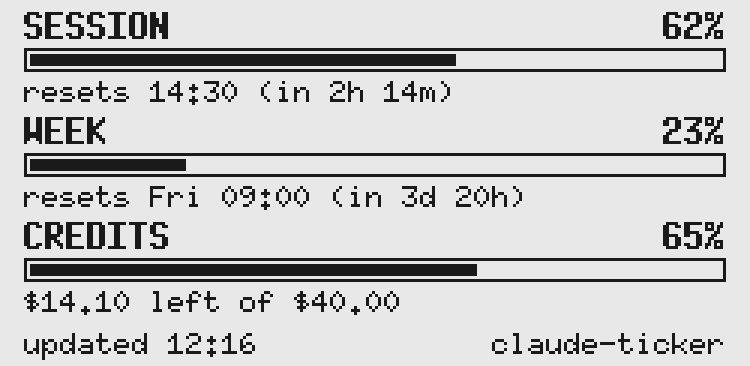
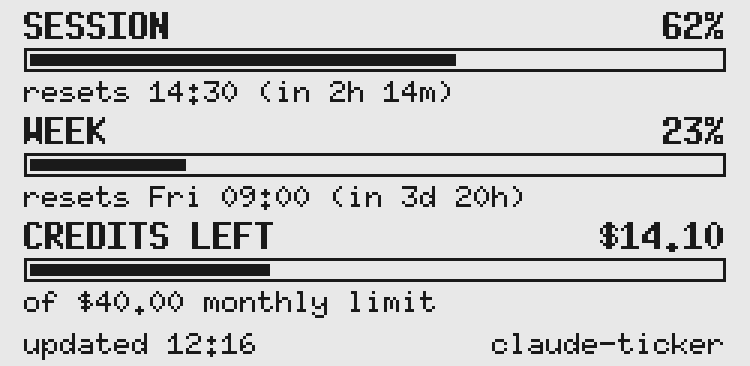
changed credits UI

diff --git a/src/view.rs b/src/view.rs
@@ -186,7 +186,7 @@ where
         Alignment::Left,
         t,
     )?;
-    let pct = format!("{}%", row.percent);
+    let pct = value_text(row);
     text(&pct, l.percent_font, TEXT_RIGHT, y, Alignment::Right, t)?;
     progress_bar(row.percent, y + l.bar_dy, t)?;
     text(
@@ -205,7 +205,7 @@ where
     D: DrawTarget<Color = BinaryColor>,
 {
     text(&row.label, &FONT_7X13_BOLD, MARGIN, y, Alignment::Left, t)?;
-    let pct = format!("{}%", row.percent);
+    let pct = value_text(row);
     text(&pct, &FONT_7X13_BOLD, TEXT_RIGHT, y, Alignment::Right, t)?;
     text(
         &short_detail(&row.detail),
@@ -218,11 +218,19 @@ where
     progress_bar(row.percent, y + DENSE_BAR_DY, t)
 }
 
-/// The line under a bar: when it resets, or `$14.10 left of $40.00`.
+/// Right of the label: `62%`, or for credits the amount left, `$11.15`.
+fn value_text(row: &Row) -> String {
+    match &row.detail {
+        Detail::Credits { left, .. } => left.to_string(),
+        Detail::Reset(_) => format!("{}%", row.percent),
+    }
+}
+
+/// The line under a bar: when it resets, or `of $40.00 monthly limit`.
 fn detail_line(detail: &Detail) -> String {
     match detail {
         Detail::Reset(reset) => reset_line(*reset),
-        Detail::Credits { left, limit } => format!("{left} left of {limit}"),
+        Detail::Credits { limit, .. } => format!("of {limit} monthly limit"),
     }
 }
 
@@ -236,7 +244,8 @@ fn short_detail(detail: &Detail) -> String {
         Detail::Reset(Reset::At { at, left }) => format!("{} ({left})", at.format("%a %H:%M")),
         Detail::Reset(Reset::Passed { at }) => format!("reset {}", at.format(TIME_FORMAT)),
         Detail::Reset(Reset::Unknown) => String::new(),
-        Detail::Credits { left, .. } => format!("{left} left"),
+        // The label and amount already say it all.
+        Detail::Credits { .. } => String::new(),
     }
 }
 
@@ -517,7 +526,7 @@ mod tests {
     /// Credits at their widest: a non-dollar currency and big amounts.
     fn credits_row() -> Row {
         Row {
-            label: "CREDITS".to_owned(),
+            label: "CREDITS LEFT".to_owned(),
             percent: 100,
             detail: Detail::Credits {
                 left: money(99_999_999, "EUR"),
@@ -604,7 +613,7 @@ mod tests {
         assert_eq!(short_detail(&rows[0].detail), "Wed 23:59 (6d 23h)");
         assert_eq!(short_detail(&rows[1].detail), "23:59 (23h 59m)");
         assert_eq!(short_detail(&rows[2].detail), "reset 23:59");
-        assert_eq!(short_detail(&rows[4].detail), "EUR 999999.99 left");
+        assert_eq!(short_detail(&rows[4].detail), "");
     }
 
     #[test]
@@ -613,8 +622,14 @@ mod tests {
             left: money(1410, "AUD"),
             limit: money(4000, "AUD"),
         };
-        assert_eq!(detail_line(&d), "$14.10 left of $40.00");
-        assert_eq!(short_detail(&d), "$14.10 left");
+        assert_eq!(detail_line(&d), "of $40.00 monthly limit");
+        assert_eq!(short_detail(&d), "");
+        let row = Row {
+            label: "CREDITS LEFT".to_owned(),
+            percent: 35,
+            detail: d,
+        };
+        assert_eq!(value_text(&row), "$14.10");
     }
 
     #[test]

diff --git a/src/usage.rs b/src/usage.rs
@@ -229,16 +229,18 @@ impl Usage {
     }
 }
 
-/// `CREDITS`: percent of the monthly cap spent, and what is left of it.
+/// `CREDITS LEFT`: what is left of the monthly cap. Unlike the other rows,
+/// `percent` is the share *remaining*, so the bar and the amount agree.
 fn credits_row(c: &Credits) -> Row {
+    let left = c.limit.minor.saturating_sub(c.used.minor).max(0);
     // Checked above zero when parsed; f64 is exact far beyond any real cap.
-    let percent = clamp_percent(c.used.minor as f64 * 100.0 / c.limit.minor.max(1) as f64);
+    let percent = clamp_percent(left as f64 * 100.0 / c.limit.minor.max(1) as f64);
     Row {
-        label: "CREDITS".to_owned(),
+        label: "CREDITS LEFT".to_owned(),
         percent,
         detail: Detail::Credits {
             left: Money {
-                minor: c.limit.minor.saturating_sub(c.used.minor).max(0),
+                minor: left,
                 ..c.limit.clone()
             },
             limit: c.limit.clone(),
@@ -349,9 +351,9 @@ pub fn sign_in_warning(expires: Option<DateTime<Utc>>, now: DateTime<Utc>) -> Op
 /// One limit on the dashboard.
 #[derive(Debug, Clone, PartialEq, Eq)]
 pub struct Row {
-    /// `SESSION`, `WEEK`, `WEEK OPUS` or `CREDITS`.
+    /// `SESSION`, `WEEK`, `WEEK OPUS` or `CREDITS LEFT`.
     pub label: String,
-    /// Percent used, 0–100.
+    /// Percent used, 0–100 (for `CREDITS LEFT`, percent remaining).
     pub percent: u8,
     /// The line under the bar.
     pub detail: Detail,
@@ -559,7 +561,7 @@ mod tests {
         );
         let s = status(json, NOW);
         let row = s.rows.last().unwrap();
-        assert_eq!((row.label.as_str(), row.percent), ("CREDITS", 65));
+        assert_eq!((row.label.as_str(), row.percent), ("CREDITS LEFT", 35));
         assert_eq!(
             row.detail,
             Detail::Credits {
@@ -601,11 +603,11 @@ mod tests {
             with(r#"{"is_enabled": true, "monthly_limit": 0, "used_credits": 0}"#),
             None
         );
-        // Overspent: 100%, nothing left, never negative.
+        // Overspent: 0% left, nothing left, never negative.
         let json = r#"{"five_hour": {"utilization": 9}, "extra_usage": {"is_enabled": true,
             "monthly_limit": 1000, "used_credits": 1234, "currency": "USD"}}"#;
         let row = status(json, NOW).rows.pop().unwrap();
-        assert_eq!(row.percent, 100);
+        assert_eq!(row.percent, 0);
         let Detail::Credits { left, .. } = row.detail else {
             panic!("{row:?}")
         };

diff --git a/src/main.rs b/src/main.rs
@@ -137,7 +137,7 @@ fn print_status(config: &Config) -> Result<(), Box<dyn Error>> {
             }
             Detail::Reset(Reset::Passed { at }) => format!("reset at {}", at.format(TIME_FORMAT)),
             Detail::Reset(Reset::Unknown) => "no reset time".to_owned(),
-            Detail::Credits { left, limit } => format!("{left} left of {limit} this month"),
+            Detail::Credits { left, limit } => format!("{left} left of {limit} monthly limit"),
         };
         println!("{:<12} {:>3}%  {detail}", row.label, row.percent);
     }

diff --git a/tests/usage_api.rs b/tests/usage_api.rs
@@ -95,7 +95,7 @@ fn real_credits_response_adds_a_credits_row() {
         .iter()
         .map(|r| (r.label.as_str(), r.percent))
         .collect();
-    assert_eq!(rows, [("SESSION", 9), ("WEEK", 100), ("CREDITS", 65)]);
+    assert_eq!(rows, [("SESSION", 9), ("WEEK", 100), ("CREDITS LEFT", 35)]);
     let Detail::Credits { left, limit } = &s.rows[2].detail else {
         panic!("{:?}", s.rows[2])
     };

diff --git a/AGENTS.md b/AGENTS.md
@@ -13,7 +13,7 @@ A small Rust program that runs on a **Raspberry Pi Zero / Zero 2 W** with a **Wa
 1. The rolling 5-hour **session** limit: percent used and when it resets.
 2. The **weekly** limit across all models: percent used and when it resets.
 3. A **model-specific weekly** limit (e.g. Opus), only when the plan has one.
-4. **Usage credits** ("extra usage"): percent of the monthly spending cap used and what is left of it, only when credits are turned on. Added at the owner's request on 2026-10-31.
+4. **Usage credits** ("extra usage"): the amount left under the monthly spending cap, only when credits are turned on. Added at the owner's request on 2026-10-31.
 
 Each limit is a row with a progress bar. A footer shows when the numbers were fetched, and marks them `STALE` when old.
 
@@ -92,7 +92,7 @@ These live in `src/usage.rs`, and each has a unit test there. `tests/usage_api.r
 - Session: `five_hour.utilization`, falling back to the `limits[]` entry with `kind = "session"` (`percent`).
 - Weekly: `seven_day.utilization`, falling back to `limits[kind = "weekly_all"]`.
 - Model row: the first non-null of `seven_day_opus`, then `seven_day_sonnet`, then any `limits[kind = "weekly_<model>"]`. Its label is `WEEK <MODEL>`.
-- Credits row (`CREDITS`, always last): `extra_usage` when `is_enabled` is true (`used_credits` and `monthly_limit` in minor units, with `currency` and `decimal_places`), falling back to `spend` when `enabled` is true (`used` and `limit`, each `{amount_minor, currency, exponent}`). It needs a cap above zero; otherwise there is no row. Other objects in the response (`iguana_necktie`, other codenamed fields) are not limits and must not become rows.
+- Credits row (`CREDITS LEFT`, always last): `extra_usage` when `is_enabled` is true (`used_credits` and `monthly_limit` in minor units, with `currency` and `decimal_places`), falling back to `spend` when `enabled` is true (`used` and `limit`, each `{amount_minor, currency, exponent}`). It needs a cap above zero; otherwise there is no row. Other objects in the response (`iguana_necktie`, other codenamed fields) are not limits and must not become rows.
 - A response with neither a session nor a weekly limit is a `ParseError::NoLimits`. A `resets_at` that is missing or invalid becomes `Reset::Unknown`, not an error.
 
 ### Display rules
@@ -103,7 +103,7 @@ These live in `src/usage.rs`, and each has a unit test there. `tests/usage_api.r
 - Reset lines: `resets 14:30 (in 2h 14m)` when under a day away, otherwise `resets Fri 09:00 (in 3d 20h)`.
 - Sign-in warning: when the refresh token expires within `SIGN_IN_WARNING` (5 days), the footer shows `re-login in <span>` (`usage::sign_in_warning`, filled in by `app` from `UsageSource::sign_in_expires`). Unknown expiry means no warning.
 - Hostname: otherwise the footer's right side shows the device's hostname (`Status::host`, filled in by `app` from `App::with_host`; `main` reads `/proc/sys/kernel/hostname`). The sign-in warning takes its place when due. Non-ASCII and whitespace characters are dropped, and it is cut short to keep two characters clear of the left text (22 characters next to `STALE Mon 12:16`).
-- Credits: percent is spent ÷ cap, rounded and clamped like the others. The line under the bar is `$14.10 left of $40.00`. Amounts left are never negative. `$` is used for USD, AUD, CAD, NZD, SGD and HKD; other currencies are written as their code (`EUR 14.10`), since the fonts are ASCII-only. The API gives no date for the cap's reset, so none is shown.
+- Credits: the row shows the amount left (cap − spent, never negative, e.g. `$14.10`) where other rows show a percentage, and its bar is the share *remaining* (`Row::percent` is percent remaining for this row only). The line under the bar is `of $40.00 monthly limit`. This is the spend limit, not the prepaid balance shown on the claude.ai usage page, which the API does not return (`spend.balance` is null, checked 2026-10-31). `$` is used for USD, AUD, CAD, NZD, SGD and HKD; other currencies are written as their code (`EUR 14.10`), since the fonts are ASCII-only. The API gives no date for the cap's reset, so none is shown.
 - Staleness: data older than `stale_minutes` is flagged `STALE`. Data older than `STALE_LIMIT_FACTOR` (6) × `stale_minutes` is `StatusError::Stale`, and the error screen replaces the numbers.
 
 ### Errors in the loop (`app`)
@@ -171,7 +171,7 @@ The display is **not** an LCD. Designs that assume one will look bad or wear out
 - 8 px side margin (`MARGIN`). Nothing may be clipped at the edges. Right-aligned text anchors at `TEXT_RIGHT`, the bar's last pixel column.
 - Fonts: `embedded_graphics::mono_font::ascii` only (`FONT_10X20`, `FONT_7X13_BOLD`, `FONT_6X10`). Monospace only, so widths are predictable. They are ASCII-only: no `·`, `…` or other non-ASCII characters in drawn text.
 - Times on the display are 24-hour `HH:MM` (`view::TIME_FORMAT`), in the configured timezone, with a weekday (`Fri 09:00`) once a day or more away.
-- Two rows use the `ROOMY` layout (large percentage). Three rows switch to `COMPACT`. Four rows (model row and credits together) switch to the dense layout: label, a short detail (`Fri 09:00 (3d 20h)`, `14:30 (2h 14m)`, `reset 14:30` or `$14.10 left`) and the percentage on one line, then the bar, on a 27 px pitch. The short detail is right-aligned to `DENSE_DETAIL_RIGHT`, leaving room for `100%`. Check the longest realistic strings fit: `WEEK SONNET`, `100%`, `resets Wed 23:59 (in 6d 23h)`, `EUR 999999.99 left of EUR 999999.99`, and the footer `STALE Wed 23:59` with `re-login in 23h 59m` or a 63-character hostname. `view::tests::longest_strings_fit_inside_margins`, `dense_rows_keep_label_and_detail_apart` and `footer_texts_never_meet` check this.
+- Two rows use the `ROOMY` layout (large percentage). Three rows switch to `COMPACT`. Four rows (model row and credits together) switch to the dense layout: label, a short detail (`Fri 09:00 (3d 20h)`, `14:30 (2h 14m)`, `reset 14:30`; none for credits) and the percentage (or credits amount) on one line, then the bar, on a 27 px pitch. The short detail is right-aligned to `DENSE_DETAIL_RIGHT`, leaving room for `100%`. Check the longest realistic strings fit: `WEEK SONNET`, `100%`, `resets Wed 23:59 (in 6d 23h)`, `EUR 999999.99` as the credits amount, and the footer `STALE Wed 23:59` with `re-login in 23h 59m` or a 63-character hostname. `view::tests::longest_strings_fit_inside_margins`, `dense_rows_keep_label_and_detail_apart` and `footer_texts_never_meet` check this.
 - After any layout change, regenerate the previews (§7) and look at them. A layout change is not done until the PNGs have been inspected.
 
 ### Reference design
@@ -180,7 +180,7 @@ The approved UI mockup is [`docs/ui-mockup.png`](docs/ui-mockup.png). **Treat it
 
 1. Dashboard, Pro: session and week.
 2. Dashboard with a model row (`WEEK OPUS`, compact layout).
-3. Dashboard with a model row and credits (`CREDITS`, A$25.90 of A$40.00; dense four-row layout).
+3. Dashboard with a model row and credits (`CREDITS LEFT`, A$14.10 of A$40.00; dense four-row layout).
 4. Stale: 40 minutes without an update.
 5. Stale, with the sign-in expiry warning at its longest (`re-login in 23h 59m`).
 6. Sign in: the QR code for `http://192.168.1.23:8080/k7Qp2xNa`, with the address written out and broken after the port.

diff --git a/README.md b/README.md
@@ -6,7 +6,7 @@
   <img src="docs/screens/dashboard.png" alt="The claude-ticker dashboard: session 62%, resets 14:30; week 23%, resets Friday 09:00" width="500">
 </p>
 
-If you use Claude on a **Pro or Max** plan, you have a 5-hour session limit and a weekly limit. claude-ticker shows both on a 2.13" e-paper screen next to your desk. It shows how much of each you've used, when each one resets, a weekly limit for a specific model (such as Opus) if your plan has one, and how much of your monthly usage-credits budget you've spent if you've turned credits on. It updates every 5 minutes.
+If you use Claude on a **Pro or Max** plan, you have a 5-hour session limit and a weekly limit. claude-ticker shows both on a 2.13" e-paper screen next to your desk. It shows how much of each you've used, when each one resets, a weekly limit for a specific model (such as Opus) if your plan has one, and how much is left under your monthly usage-credits limit if you've turned credits on. It updates every 5 minutes.
 
 It runs on a Raspberry Pi Zero W or Zero 2 W with a Waveshare e-paper HAT, which is a screen that plugs straight onto the Pi's pins. The Pi and screen together cost roughly US$35–45. E-paper keeps its image with no power and doesn't glow, so the display stays readable all day without lighting up your desk.
 
@@ -36,7 +36,7 @@ It runs on a Raspberry Pi Zero W or Zero 2 W with a Waveshare e-paper HAT, which
 |---|---|
 | <img src="docs/screens/dashboard.png" alt="Dashboard" width="300"> | **Dashboard.** Your 5-hour **session** and **weekly** usage, each with a bar and the time it resets. The bottom line shows when the numbers were last fetched, and the Pi's hostname (handy for `ssh you@<hostname>.local`). |
 | <img src="docs/screens/dashboard-model.png" alt="Dashboard with a model row" width="300"> | **Dashboard with a model limit.** If your plan has a separate weekly limit for one model, such as Opus, it gets a third row. |
-| <img src="docs/screens/dashboard-credits.png" alt="Dashboard with usage credits" width="300"> | **Usage credits.** If you've turned on usage credits (extra usage you pay for once you hit your plan's limits), a **CREDITS** row shows how much of your monthly spending cap you've used, and how much is left. |
+| <img src="docs/screens/dashboard-credits.png" alt="Dashboard with usage credits" width="300"> | **Usage credits.** If you've turned on usage credits (extra usage you pay for once you hit your plan's limits), a **CREDITS LEFT** row shows how much is left under your monthly spending limit, with a bar for the share remaining. Note this is the limit you set, not your prepaid balance, which Claude's usage endpoint doesn't report, so it can differ from the balance on claude.ai. |
 | <img src="docs/screens/dashboard-four.png" alt="Dashboard with four rows" width="300"> | **Four rows.** With both a model limit and usage credits, the rows get closer together and each reset time moves up beside its label. |
 | <img src="docs/screens/stale.png" alt="Stale data" width="300"> | **STALE.** The Pi hasn't been able to fetch new numbers for a while (15 minutes by default), usually because of a Wi-Fi drop. It keeps showing the last numbers and marks when they're from. It clears by itself at the next successful fetch. |
 | <img src="docs/screens/expiry-warning.png" alt="Sign-in expiry warning" width="300"> | **re-login in ...** The Pi's sign-in expires in less than 5 days. [Sign in again](#signing-in-again) before then. This takes the hostname's place until you do. |
